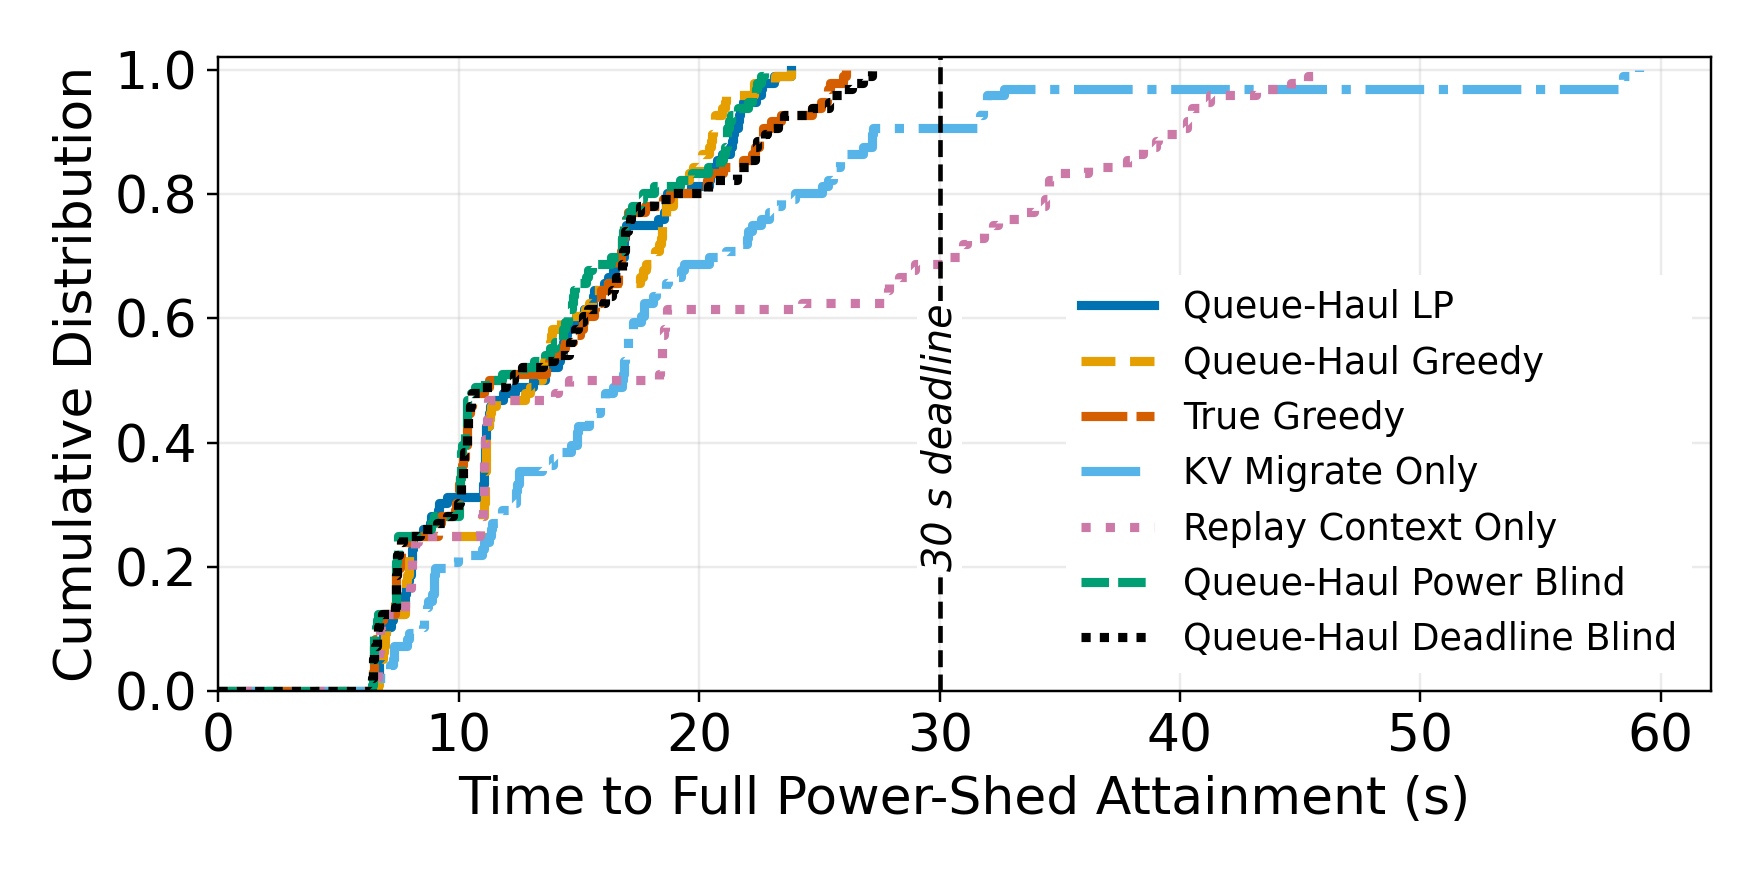
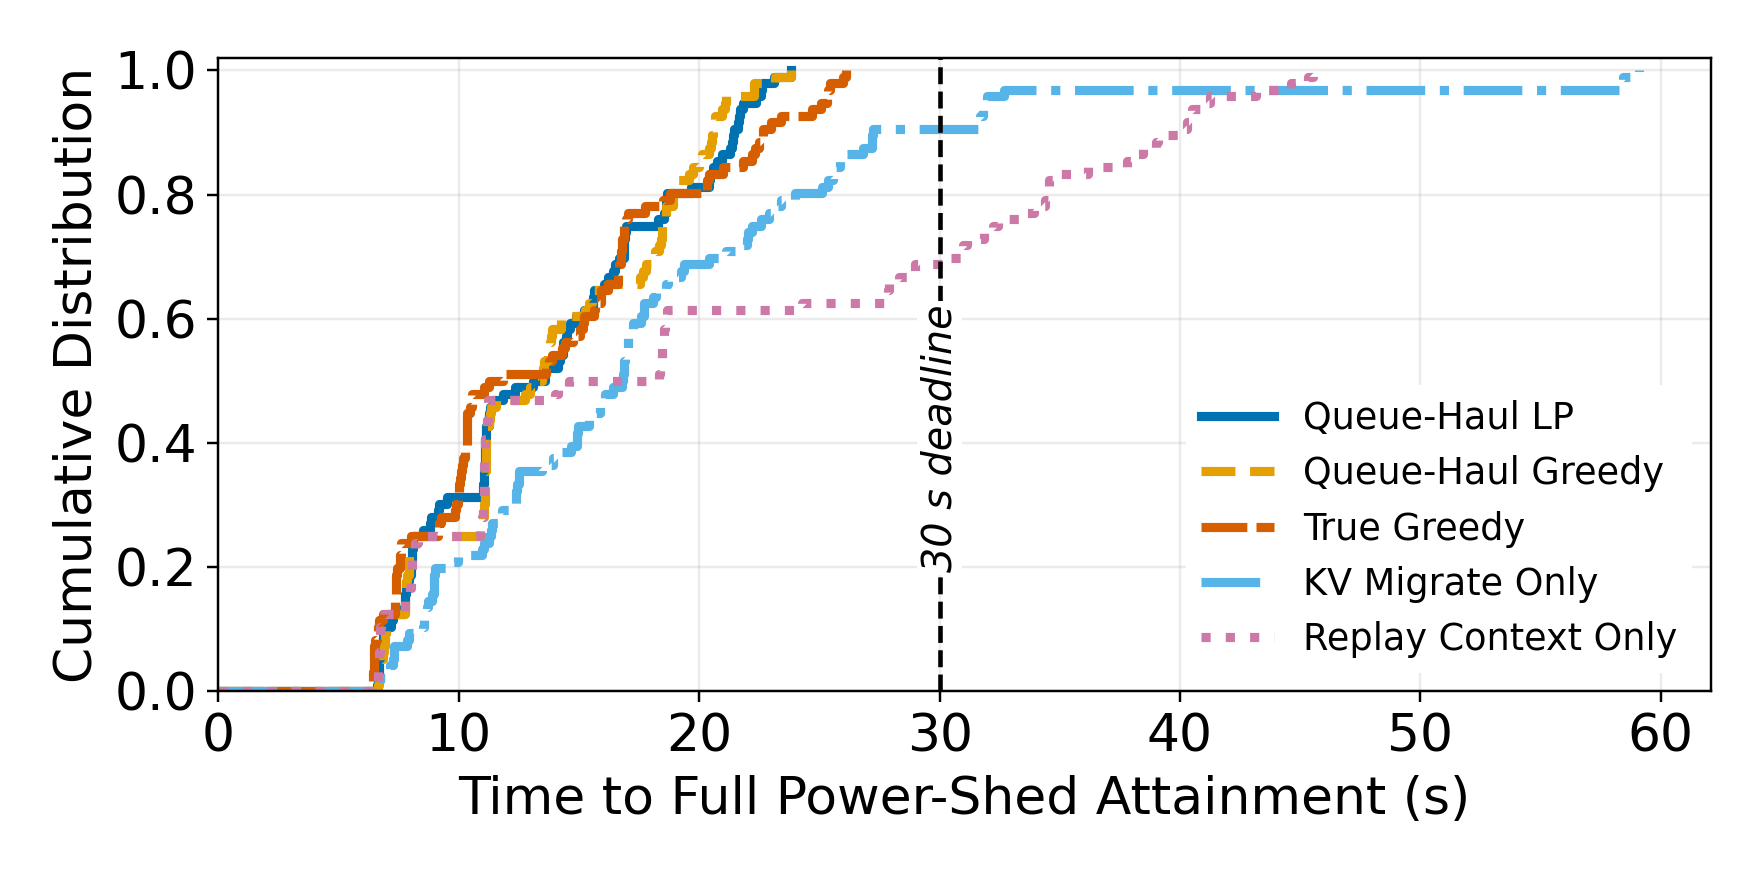
Remove blind baselines from full power attainment CDF

diff --git a/agent-migrate/queue-haul/tests/test_policy_hardware_campaign.py b/agent-migrate/queue-haul/tests/test_policy_hardware_campaign.py
@@ -744,8 +744,10 @@ def test_full_power_attainment_uses_all_cases_and_requested_layout(
     figure = campaign.plt.gcf()
     ax = figure.axes[0]
     legend = ax.get_legend()
+    policies = ["queue_haul", "greedy", "greedy_lagrangian",
+                "isolated_fastest", "kv_only", "replay_only"]
     assert [text.get_text() for text in legend.texts] \
-        == [CDF_LABELS[policy] for policy in campaign.CDF_POLICIES]
+        == [CDF_LABELS[policy] for policy in policies]
     assert not figure.legends
     assert legend._ncols == 1
     assert legend._loc == 4
@@ -754,7 +756,7 @@ def test_full_power_attainment_uses_all_cases_and_requested_layout(
     assert ax.xaxis.label.get_fontsize() == 17
     assert legend.get_texts()[0].get_fontsize() == 12
     assert [line.get_color() for line in ax.lines[:-1]] \
-        == [CDF_COLORS[policy] for policy in campaign.CDF_POLICIES]
+        == [CDF_COLORS[policy] for policy in policies]
     assert len({str(CDF_LINESTYLES[policy])
                 for policy in campaign.CDF_POLICIES}) == len(campaign.CDF_POLICIES)
     figure.canvas.draw()

diff --git a/agent-migrate/queue-haul/policy_hardware_campaign.py b/agent-migrate/queue-haul/policy_hardware_campaign.py
@@ -932,7 +932,7 @@ def plot_max_session_ttft_per_watt(rows, summaries, power_curve, out):
 def plot_full_power_attainment(summaries, power_window_s, out,
                                deadline_s=30):
     fig, ax = plt.subplots(figsize=plot_style.WIDE_FIGSIZE)
-    for policy in CDF_POLICIES:
+    for policy in (p for p in CDF_POLICIES if not p.endswith("_blind")):
         x, y = full_power_attainment_curve(
             summaries, policy, deadline_s, power_window_s
         )
